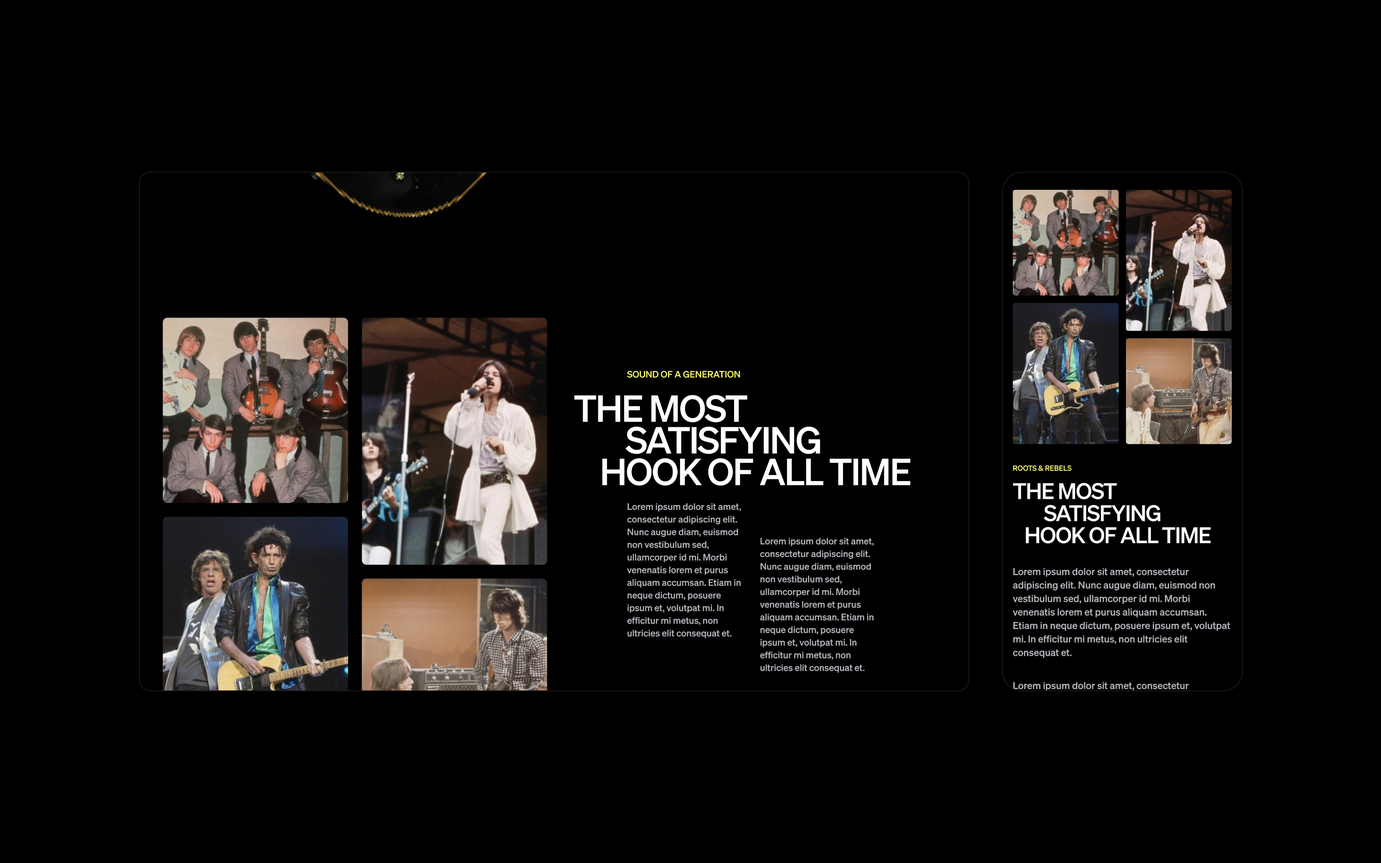
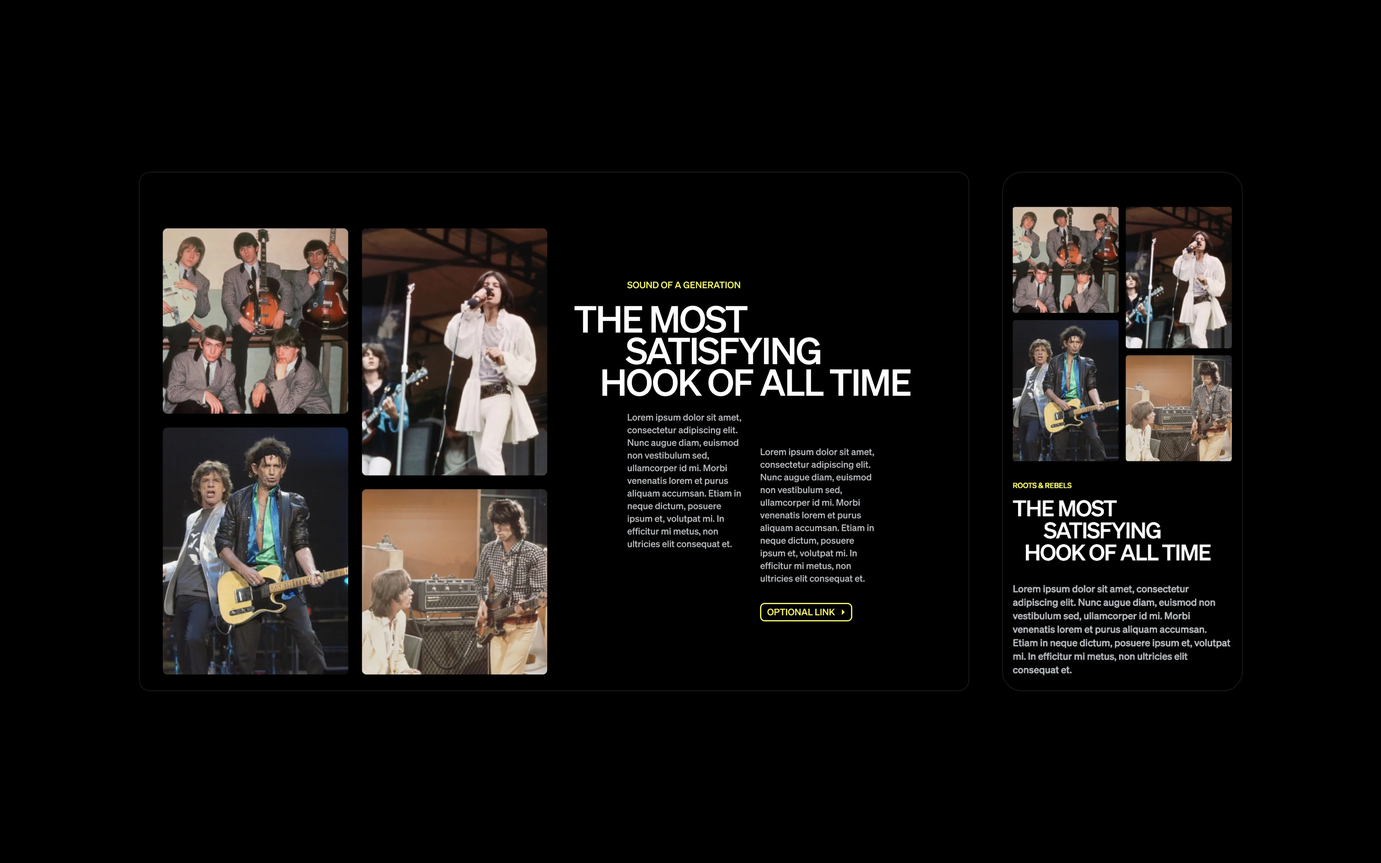
Restore desktop+mobile comps on every case, add new comps for extra screens, keep bento modules as supporting slides
Claude-Session: https://claude.ai/code/session_012hvRRtN4bxtUwdtDAPfzb9

Changed region(s): [[0.0938, 0.217, 0.6562, 0.806], [0.7188, 0.217, 0.9062, 0.806], [0.2188, 0.186, 0.25, 0.217]]

diff --git a/index.html b/index.html
@@ -402,16 +402,16 @@ function setMode(m){ if(m==="light") root.setAttribute("data-mode","light"); els
 let saved="dark"; try{saved=localStorage.getItem("cd-theme")||"dark"}catch(e){}
 setMode(saved);
 document.querySelector(".modes").addEventListener("click",e=>{const b=e.target.closest("[data-set]"); if(b) setMode(b.dataset.set)});
-const IMG = {"s-b-bc-comps":[3200,2000],"s-b-bc-found":[3200,2000],"s-b-bc-hero":[3200,2000],"s-b-bc-pattern":[3200,2000],"s-b-bc-start":[3200,2000],"s-b-cv-buttons":[3200,2000],"s-b-cv-tnf":[3200,2000],"s-b-dk-cats":[3200,2000],"s-b-dk-hero":[3200,2000],"s-b-dk-mobile":[3200,2000],"s-b-dk-shop":[3200,2000],"s-b-dk-stories":[3200,2000],"s-b-hk-art":[3200,2000],"s-b-hk-found":[3200,2000],"s-b-hk-hero":[3200,2000],"s-b-hk-principles":[3200,2000],"s-b-hk-specs":[3200,2000],"s-b-hk-themes":[3200,2000],"s-b-io-direction":[3200,2000],"s-b-io-games":[3200,2000],"s-b-io-hero":[3200,2000],"s-b-io-mobile":[3200,2000],"s-b-io-payoff":[3200,2000],"s-b-io-reveal":[3200,2000],"s-b-pga-coverage":[3200,2000],"s-b-pga-hero":[3200,2000],"s-b-pga-live":[3200,2000],"s-b-pga-onboard":[3200,2000],"s-b-pga-stories":[3200,2000],"s-b-rh-archive":[3200,2000],"s-b-rh-artifacts":[3200,2000],"s-b-rh-hero":[3200,2000],"s-b-rh-sound":[3200,2000],"s-b-rh-system":[3200,2000],"s-b-rh-voice":[3200,2000],"s-b-sw-arch":[3200,2000],"s-b-sw-dirs":[3200,2000],"s-b-sw-disc":[3200,2000],"s-b-sw-hero":[3200,2000],"s-b-sw-mobile":[3200,2000],"s-cv-hero":[3200,2000],"s-cv-type":[3200,2000],"s-cv2-brands":[3200,2000],"s-cv2-ramps":[3200,2000],"s-cv2-tokens":[3200,2000],"s-dbg-action":[3200,2000],"s-dbg-color":[3200,2000],"s-dbg-dos":[3200,2000],"s-dbg-hero":[3200,2000],"s-dbg-logo":[3200,2000],"s-dbg-photo":[3200,2000],"s-dbg-type":[3200,2000]};
+const IMG = {"l-cv-4":[3200,2000],"l-cv-5":[3200,2000],"l-cv-6":[3200,2000],"l-hk-1":[3200,2000],"l-hk-2":[3200,2000],"l-hk-3":[3200,2000],"l-hk-4":[3200,2000],"l-hk-5":[3200,2000],"l-hk-6":[3200,2000],"l-hk-7":[3200,2000],"l-rh-collage":[3200,2000],"l-rh-essay":[3200,2000],"l-rh-feature":[3200,2000],"l-rh-timeline":[3200,2000],"l-rh2-influence":[3200,2000],"l-rh2-poster":[3200,2000],"l-rh2-sound":[3200,2000],"l-rh3-art":[3200,2000],"l-rh3-back":[3200,2000],"l-rh3-quote":[3200,2000],"l-rhx-hero-stones":[3200,2000],"m-bc-color":[3200,2000],"m-bc-comps":[3200,2000],"m-bc-gallery":[3200,2000],"m-bc-home":[3200,2000],"m-bc-pattern":[3200,2000],"m-bc-start":[3200,2000],"m-bc-type":[3200,2000],"m-dk-biz":[3200,2000],"m-dk-cart":[3200,2000],"m-dk-home":[3200,2000],"m-dk-pdp":[3200,2000],"m-dk-plp":[3200,2000],"m-dk-scrubs":[3200,2000],"m-dk-skate":[3200,2000],"m-dk-stories":[3200,2000],"m-dk-team":[3200,2000],"m-io-color":[3200,2000],"m-io-complete":[3200,2000],"m-io-motion":[3200,2000],"m-io-play":[3200,2000],"m-io-progress":[3200,2000],"m-io-remix":[3200,2000],"m-io-reveal":[3200,2000],"m-io-sense":[3200,2000],"m-io-share":[3200,2000],"m-io-sound":[3200,2000],"m-io-unlock":[3200,2000],"m-pga2-feed":[3200,2000],"m-pga2-hero":[3200,2000],"m-pga2-hole":[3200,2000],"m-pga2-live":[3200,2000],"m-pga2-onboard":[3200,2000],"m-pga2-story":[3200,2000],"m-sw-act":[3200,2000],"m-sw-coll":[3200,2000],"m-sw-gear":[3200,2000],"m-sw-home":[3200,2000],"m-sw-plant":[3200,2000],"m-sw-prod":[3200,2000],"m-sw-v2":[3200,2000],"s-b-cv-buttons":[3200,2000],"s-b-dk-mobile":[3200,2000],"s-b-hk-art":[3200,2000],"s-b-hk-found":[3200,2000],"s-b-hk-principles":[3200,2000],"s-b-hk-specs":[3200,2000],"s-b-hk-themes":[3200,2000],"s-b-io-direction":[3200,2000],"s-b-io-mobile":[3200,2000],"s-b-rh-system":[3200,2000],"s-b-sw-mobile":[3200,2000],"s-cv-hero":[3200,2000],"s-cv2-brands":[3200,2000],"s-cv2-ramps":[3200,2000],"s-cv2-tokens":[3200,2000],"s-dbg-action":[3200,2000],"s-dbg-color":[3200,2000],"s-dbg-dos":[3200,2000],"s-dbg-hero":[3200,2000],"s-dbg-logo":[3200,2000],"s-dbg-photo":[3200,2000],"s-dbg-type":[3200,2000],"s-hk-p-fan":[3200,2000],"s-hk-vision-wall":[3200,2000]};
 const P = [
   {id:"google-io", n:"001", client:"Google I/O 2026",co:"Google", short:"Google I/O", disc:"Web Experience", tint:"#A23E1D",
-    role:"Art director &amp; designer", platform:"Responsive web", cover:"s-b-io-hero",
+    role:"Art director &amp; designer", platform:"Responsive web", cover:"m-io-play",
     scope:"25 playable builds that unlocked the I/O 2026 date, on desktop and mobile",
     stats:[["Day 1","The community unlocked the I/O date the day it launched"],["5","Gemini-powered game bundles in one visual language"],["5,000+","I/O attendees, plus a worldwide livestream audience"]],
     lead:"I led art direction and design for the experience, partnering with Google’s I/O team and Left Field Labs’ developers on every game",
     team:"With Left Field Labs and the Google I/O team",
     tagline:"Google could have just announced the date. Instead, we built a game the whole community had to play to unlock it.",
-    hero:["s-b-io-hero","Bundles: the game that unlocked the I/O 2026 date"],
+    hero:["m-io-play","Let’s play. Bundle select on desktop and mobile"],
     story:[
       {k:"(The Brief)", h:"Make the date reveal something people earn together.",
        p:["Every year, developers watch for the Google I/O date drop. For 2026, Left Field Labs and Google wanted the reveal to feel like an event of its own instead of a press release.",
@@ -419,56 +419,66 @@ const P = [
       {k:"(Direction)", h:"Google’s brand, treated like a physical material.",
        p:["I led art direction and design. We treated Google’s palette as folded, bent and layered cards with light moving across them, so each bundle had its own personality and still read instantly as Google. Finish a bundle and its card flips, folds and resolves into the Gemini spark.",
           "Type stayed calm and huge so the play could be loud. “Let’s play” did most of the talking."]},
+      {media:[["m-io-complete","Bundle complete: the card resolves into the Gemini spark","full"]]},
       {media:[["s-b-io-direction","The layered-card language: the bundle shelf, a card mid-flip and the Gemini spark","full"]]},
       {k:"(The Games)", h:"One visual language across every game.",
        p:["With many games in flight at once, the look could drift fast. I set the art direction as a system: the card language, color and type rules, and how every win, badge and progress state looks, so Emoji Code, Sketch Race, Sound in Motion and Color Sense each felt new and still read as one experience."]},
-      {media:[["s-b-io-games","Emoji Code, Sketch Race, Sound in Motion and Color Sense","full"]]},
+      {media:[["m-io-sound","Emoji Code","full"]]},
+      {media:[["m-io-color","Sketch Race","full"]]},
+      {media:[["m-io-motion","Sound in Motion","full"]]},
+      {media:[["m-io-sense","Color Sense","full"]]},
       {k:"(On Every Screen)", h:"Built for the phone in your pocket.",
        p:["Most people played on their phones, between sessions and on the way to work. Every game was designed for touch first, and we prototyped in the browser with engineering from the start, so what got approved in review is what shipped."]},
       {media:[["s-b-io-mobile","The full loop on mobile, from Let’s Play to the date","full"]]},
       {k:"(The Reveal)", h:"Everyone played. Everyone unlocked it.",
        p:["Every play anywhere filled one shared bar. When it filled, the date became a build of its own: May 19–20, rendered in the same layered cards, ready to explore and share."]},
-      {media:[["s-b-io-reveal","Community progress filling, then the date drop","full"]]},
+      {media:[["m-io-progress","Community progress. Every play fills the bar","full"]]},
+      {media:[["m-io-reveal","The date reveal, May 19–20","full"]]},
       {k:"(The Payoff)", h:"Something to show for it.",
        p:["Players who finished every bundle got badges to post, a hidden remix to unlock and an invitation to make a build their own. Daily reviews with Left Field Labs and weekly check-ins with Google kept every bundle on brand and on schedule through launch."]},
-      {media:[["s-b-io-payoff","You did it: badges, the hidden unlock and remix","full"]]},
+      {media:[["m-io-share","You did it. Shareable badges for finishing every bundle","full"]]},
+      {media:[["m-io-unlock","A hidden unlock for the players who found it","full"]]},
+      {media:[["m-io-remix","Make it unique: remix a build and share it","full"]]},
     ]},
 
   {id:"pga-tour", n:"002", client:"PGA Tour App",co:"PGA Tour", short:"PGA Tour App", disc:"Mobile App", tint:"#1C2B4A",
-    role:"Design lead", platform:"iOS · Android", cover:"s-b-pga-hero",
+    role:"Design lead", platform:"iOS · Android", cover:"m-pga2-hero",
     scope:"YourTOUR, live leaderboards, TOURCast shot tracking, scorecards and Watch, on iOS and Android",
     stats:[["0","Taps to your favorite golfers: YourTOUR leads the home feed"],["9","Product areas redesigned, from onboarding to Watch"],["4.5★","App Store rating for the app, across 45K+ reviews"]],
     lead:"I led design on the app at Shockoe. I owned the visual direction and the UI end to end, and drove it with the Tour’s product, brand and engineering teams",
     team:"With Shockoe and the PGA Tour brand and product teams",
     tagline:"Fans follow players, not tournaments. We rebuilt the PGA Tour app around that.",
-    hero:["s-b-pga-hero","YourTOUR, the live leaderboard and hole detail"],
+    hero:["m-pga2-hero","YourTOUR, the live leaderboard and hole detail"],
     story:[
       {k:"(The Brief)", h:"A powerful app that made fans do all the work.",
        p:["At Shockoe, we partnered with the PGA Tour on its flagship app. It had scores, stats, video and news, organized the way the Tour thinks about golf: by event and by round. Fans think about golf by player. Checking on your favorite golfer took several taps and a lot of scrolling.",
           "The brief was onboarding, personalization and a simpler core experience, with more of the Tour’s energy in the product."]},
       {k:"(Onboarding)", h:"Pick your players first. Everything else follows.",
        p:["Favorites moved to the very start. Pick your tours and your players, and those choices shape the home feed, the alerts and what surfaces during a live round. That became YourTOUR, a feed that leads with the story of the day for the players you care about."]},
-      {media:[["s-b-pga-onboard","Choose your tours, set the scene, land in YourTOUR, keep your favorites","full"]]},
+      {media:[["m-pga2-onboard","Choose your tours, set the scene, keep your favorites","full"]]},
+      {media:[["s-hk-p-fan","Fan focused: the players you follow, front and center","full"]]},
       {k:"(Live Golf)", h:"Shot-level data, readable at a glance.",
        p:["Golf produces a huge amount of data. We kept what a fan actually checks, laid over the course itself: the leaderboard, the group on the tee, par, yardage and scoring on every hole, and TourCast tracing every shot."]},
-      {media:[["s-b-pga-live","Leaderboard, group scorecard, hole detail, TourCast and the full course","full"]]},
+      {media:[["m-pga2-hole","Hole detail, TourCast shot tracking and the full course","full"]]},
+      {media:[["m-pga2-live","Group scorecard, tournament stats and the tournament hub","full"]]},
       {k:"(Coverage)", h:"One number that matters, big.",
        p:["News, player profiles, stats and Watch got the same treatment: the number or the story that matters most, large, with the detail a tap away. Every live stream sits one tap from the leaderboard."]},
-      {media:[["s-b-pga-coverage","Explore, a player profile, tournament stats and Watch","full"]]},
+      {media:[["m-pga2-feed","News, player profiles and live coverage","full"]]},
       {k:"(Stories)", h:"The round, told like a highlight reel.",
        p:["Between shots, the app tells the story of the day. Full-screen stories open on the round and close on the champion, and every tournament gets a hub with its own course photography.",
           "Every screen was built on the Haskell design system, which has its own case study."]},
-      {media:[["s-b-pga-stories","Stories for the round and the champion, and the tournament hubs","full"]]},
+      {media:[["m-pga2-story","Stories: Round Three, the champion, and the tournament","full"]]},
+      {media:[["s-hk-vision-wall","Stories, recaps and player moments","full"]]},
     ]},
 
   {id:"haskell", n:"003", client:"Haskell Design System",co:"PGA Tour", short:"Haskell", disc:"Design System", tint:"#2F4A35",
-    role:"Design system lead", platform:"iOS · Android · Web · Figma", cover:"s-b-hk-hero",
+    role:"Design system lead", platform:"iOS · Android · Web · Figma", cover:"l-hk-1",
     scope:"Tokens, type, color, icons, motion and specs shared across iOS, Android and web",
     stats:[["11","Foundation sets, from type and color to motion and art direction"],["3","Platforms, iOS, Android and web, from one source of truth"],["4.5:1","Minimum contrast, built into every Tour theme"]],
     lead:"I led the Haskell system at Shockoe, building it alongside the app and owning the foundations and specs that Tour engineers and partners shipped from",
     team:"With Shockoe and the PGA Tour digital, brand and engineering teams",
     tagline:"Every shot, every hole, every screen. One system underneath it all.",
-    hero:["s-b-hk-hero","Haskell: the system behind every PGA Tour screen"],
+    hero:["l-hk-1","Foundations, and YourTOUR built on them"],
     story:[
       {k:"(The Brief)", h:"A digital evolution, built on one foundation.",
        p:["The PGA Tour was reimagining its digital experience: every shot live, every hole in 3D, and stories that follow the players fans care about. Ambitions that big need a system underneath, or every new feature turns into a one-off.",
@@ -479,72 +489,89 @@ const P = [
       {k:"(Foundations)", h:"Tokens named for their job.",
        p:["Suisse Int’l brings clarity and Tobias brings character, across a scale that runs from hero moments down to dense stats. Underneath sit the tokens for color, motion and space, each named for what it does rather than its value, on a 4dp grid.",
           "Motion got the same care as color. One easing curve drives every transition, and a linear curve handles anything that scales or scrubs."]},
+      {media:[["l-hk-2","Spacing methods on a 4dp grid, applied to the scorecard","full"]]},
+      {media:[["l-hk-4","Motion easing, driving hole detail transitions","full"]]},
       {media:[["s-b-hk-found","Motion durations, spacing variables, spacing methods, radii and easing","full"]]},
       {k:"(Specs)", h:"Rules a partner can follow without a meeting.",
        p:["Every part of the system has a spec: logos at 600 by 600 with room for the mask, tab bar icons in a 24dp grid with 1.5 to 2dp strokes, and colors that hold a 4.5:1 contrast ratio."]},
+      {media:[["l-hk-5","Tab bar icon specs, live in the app","full"]]},
+      {media:[["l-hk-7","Color specs, applied to the leaderboard","full"]]},
       {media:[["s-b-hk-specs","Color, tab bar icon and logo specs","full"]]},
       {k:"(Themes)", h:"Big events, without forking the system.",
        p:["Tournaments like The Players get their own palette and imagery. The theme swaps colors and art, and every component underneath stays the same, from the tournament hub to the leaderboard."]},
+      {media:[["l-hk-3","Theme palette, applied to a tournament hub","full"]]},
       {media:[["s-b-hk-themes","Theme palette, tournament themes and themed screens","full"]]},
       {k:"(Art Direction)", h:"Rules for the course itself.",
        p:["Golf is as much about place as players, so Haskell covers imagery too: aerial vistas, top-down flyovers and golden-hour light, with specs for frame rate and stabilization. Design and engineering now share one source of truth, and the same patterns run from the leaderboard to TourCast shot tracking."]},
+      {media:[["l-hk-6","Course art direction, carried into the hole view","full"]]},
       {media:[["s-b-hk-art","Moodboard, top-down, aerial and TourCast","full"]]},
     ]},
 
   {id:"rock-hall", n:"004", client:"Rock &amp; Roll Hall of Fame",co:"Rock &amp; Roll Hall of Fame", short:"Rock Hall", disc:"Web Experience", tint:"#7D1E22",
-    role:"Art direction &amp; UX lead", platform:"Responsive web", cover:"s-b-rh-hero",
+    role:"Art direction &amp; UX lead", platform:"Responsive web", cover:"l-rhx-hero-stones",
     scope:"Inductee pages, artifact and archive modules, and one component library behind the whole site",
     stats:[["514K+","Annual museum visitors, now with the museum online for everyone else"],["46B","Induction media impressions, each one landing on a richer inductee page"],["1","Component library: new inductee pages without new design"]],
     lead:"I led art direction on the inductee and artist detail pages and set the visual standard for the site, with Grow and the Hall",
     team:"With Grow and the Rock &amp; Roll Hall of Fame team",
     tagline:"Most people will never make it to Cleveland. So we brought the museum to them.",
-    hero:["s-b-rh-hero","The Rolling Stones, inducted 1989"],
+    hero:["l-rhx-hero-stones","The Rolling Stones, inducted 1989"],
     story:[
       {k:"(The Brief)", h:"Put the museum on every screen.",
        p:["With Grow, we partnered with the Rock &amp; Roll Hall of Fame on its digital experience. The museum is full of guitars, stage clothes, posters and records. Online, the site was mostly tickets, hours and a list of names.",
           "Our idea was to treat every inductee page like a gallery. I worked on art direction, UX and UI, and led visual direction on the inductee pages, where the objects, the music and the story come together. Here is one inductee, the Rolling Stones, followed down the page."]},
       {k:"(Artifacts)", h:"Every object tells part of the story.",
        p:["First comes an object from the collection, lit like it sits behind glass, with the story beside it, a button to view it in 3D and footage below. A black Les Paul, a concert poster: the same module carries any object, and the layout bends to fit it."]},
-      {media:[["s-b-rh-artifacts","A black Les Paul in 3D, and a Stones concert poster from the collection","full"]]},
+      {media:[["l-rh3-art","From the museum: a black Les Paul you can turn over in 3D","full"]]},
+      {media:[["l-rh2-poster","A Stones concert poster, straight from the collection","full"]]},
       {k:"(Their Sound)", h:"Pull a record and it plays.",
        p:["Records work like the objects. Pull one from the stack and it slides out of its sleeve and plays. Photo spreads from the era sit beside the music, so the page sounds and looks like the band."]},
-      {media:[["s-b-rh-sound","Their signature sound, and the most satisfying hook of all time","full"]]},
+      {media:[["l-rh2-sound","Their signature sound: records you can pull and play","full"]]},
+      {media:[["l-rh-collage","The most satisfying hook of all time, in photos from the era","full"]]},
       {k:"(Their Voice)", h:"Let the artists say it.",
        p:["Backstage access puts interviews right on the page, so Mick and Keith tell the story themselves. Pull quotes run big and plain, in the Hall’s yellow, and the induction essay sits one tap away."]},
-      {media:[["s-b-rh-voice","Backstage with Mick and Keith, the 1989 essay and a pull quote","full"]]},
+      {media:[["l-rh3-back","Backstage access: Mick Jagger and Keith Richards, in their own words","full"]]},
+      {media:[["l-rh3-quote","In their own words: Mick Jagger","full"]]},
+      {media:[["l-rh-essay","The 1989 Hall of Fame essay","full"]]},
       {k:"(The Archive)", h:"One visit turns into an hour.",
        p:["Influence maps connect each inductee to the artists who shaped them and the ones they shaped, and a timeline walks through the career, so every page leads somewhere else in the Hall."]},
-      {media:[["s-b-rh-archive","Their influence, and a timeline from Ed Sullivan to the Tour of the Americas","full"]]},
+      {media:[["l-rh2-influence","Their influence: who they learned from, and who learned from them","full"]]},
+      {media:[["l-rh-timeline","Career milestones, from Ed Sullivan to the Tour of the Americas","full"]]},
       {k:"(The System)", h:"One library runs all of it.",
        p:["The same component library carries the whole site, from inductee heroes and feature blocks to class listings, ticketing and the live induction broadcast."]},
+      {media:[["l-rh-feature","A feature block from the library: honoring the Class of 2025","full"]]},
       {media:[["s-b-rh-system","Heroes, feature blocks, class listings and calls to action from the library","full"]]},
     ]},
 
   {id:"dickies", n:"005", client:"Dickies.com",co:"Dickies", short:"Dickies.com", disc:"E-Commerce", tint:"#4E3426",
-    role:"UI &amp; visual design lead", platform:"Shopify · Responsive web", cover:"s-b-dk-hero",
+    role:"UI &amp; visual design lead", platform:"Shopify · Responsive web", cover:"m-dk-home",
     scope:"Home, category, product, Skate, Scrubs, Stories and team pages on Shopify",
     stats:[["100+","Countries, one storefront system for workwear, skate and scrubs"],["7","Page types redesigned on shared parts"],["1","Design language from home to checkout"]],
     lead:"I led UI and visual design for the storefront, working with the Dickies brand team, merchandising and partner developers",
     team:"With VF Corporation, the Dickies brand team and partner agencies",
     tagline:"A storefront for people who actually wear the clothes to work.",
-    hero:["s-b-dk-hero","Dickies.com: home, product, category and Skateboarding"],
+    hero:["m-dk-home","Home, desktop and mobile"],
     story:[
       {k:"(The Brief)", h:"A site as hardworking as the people who shop it.",
        p:["Dickies has made workwear since 1922. Its customers are welders, ranchers, skaters and chefs who are hard on their clothes and have no patience for a fussy website.",
           "Working with VF Corporation and the Dickies brand team, we redesigned the site as part of a wider brand refresh with a new identity and a custom typeface drawn from the logo. I led UI and visual design, carrying that refresh into a responsive store that balances grit with utility."]},
       {k:"(Shopping)", h:"Product in front of people, sooner.",
        p:["Research and an audit of the old site showed the problems quickly: oversized modules, products buried below the fold, and navigation that made people work for the basics. Category pages now open on product, product pages lead with fit and color, and the cart keeps the wishlist in reach."]},
-      {media:[["s-b-dk-shop","Men’s Pants, the Original 874® product page, the cart and Men’s","full"]]},
+      {media:[["m-dk-plp","Men’s Pants, a category landing page","full"]]},
+      {media:[["m-dk-pdp","Product page for the Original 874® Work Pant","full"]]},
+      {media:[["m-dk-cart","The cart, with the wishlist in reach","full"]]},
       {k:"(Mobile-First)", h:"Swipe to shop.",
        p:["Most customers shop on their phones, so we designed for the phone first. Shoppable carousels fit more product on a small screen without endless scrolling, and tighter modules let the typeface and the photography carry the brand."]},
       {media:[["s-b-dk-mobile","Home, category, product, cart and Skateboarding on mobile","full"]]},
       {k:"(Categories)", h:"New lines, same modules.",
        p:["Best Sellers opened up to every category, the navigation got simpler, and the same modules stretched to Skateboarding, Scrubs and Dickies for Business without new templates."]},
-      {media:[["s-b-dk-cats","Skateboarding, Scrubs, Dickies for Business and Home","full"]]},
+      {media:[["m-dk-skate","Skateboarding, with products and the team","full"]]},
+      {media:[["m-dk-scrubs","Scrubs, a new category on the same modules","full"]]},
+      {media:[["m-dk-biz","Dickies for Business","full"]]},
       {k:"(Stories)", h:"Real people in the clothes.",
        p:["Dickies has stories worth telling, from racing builds to its skate team. Editorial and team pages run on the same Figma system as the store, so the team can publish a story as fast as a sale.",
           "The result is a faster, mobile-first storefront built to take a beating, just like the clothes."]},
-      {media:[["s-b-dk-stories","Stories, Still in the Race, and skate team member Christian Henry","full"]]},
+      {media:[["m-dk-stories","Stories, Still in the Race","full"]]},
+      {media:[["m-dk-team","Skate team member, Christian Henry","full"]]},
     ]},
 
   {id:"dickies-brand", n:"006", client:"Dickies Brand Guidelines",co:"Dickies", short:"Dickies Brand", disc:"Brand System", tint:"#8A5418",
@@ -599,67 +626,73 @@ const P = [
       {k:"(Foundations)", h:"One token, two sizes.",
        p:["Type works the same way. Each style is a token for family, size, line height, letter spacing and weight, with a desktop and a mobile value, so Display 1 drops from 80 to 40 on a phone without anyone redrawing a screen. Brands swap the family and keep the scale.",
           "Buttons, inputs, filters, ratings, navigation and loaders sit on top: seventy-plus components, each with its own documentation page and copy-paste stickers."]},
-      {media:[["s-cv-type","The type scale, one token per style","full"]]},
+      {media:[["l-cv-4","Type scale, desktop to mobile","full"]]},
+      {media:[["l-cv-5","Button types and states","full"]]},
       {media:[["s-b-cv-buttons","Button stickers: every type and state, plus payment and floating action buttons","full"]]},
       {k:"(How It Scales)", h:"Swap the tokens. Keep the components.",
        p:["Canvas isn’t a website. It’s the building blocks every VF brand shares. On the left is the unbranded product card: slots for a logo and imagery, default tokens, no brand. On the right, The North Face fills it in with their logo, their photography and their tokens: near-black #262527 for actions, 4px corners and title-case calls to action. Not one component was redrawn.",
           "That is the whole point of the system. Designers at The North Face and Dickies start from the same tested parts, and each brand still looks like itself."]},
       {media:[["s-cv2-brands","The unbranded Canvas component, and The North Face built on it","full"]]},
-      {media:[["s-b-cv-tnf","The North Face product page, built entirely from Canvas","full"]]},
+      {media:[["l-cv-6","Canvas, themed for The North Face: the product page on desktop and mobile","full"]]},
     ]},
 
   {id:"smartwool", n:"008", client:"Smartwool.com",co:"Smartwool", short:"Smartwool.com", disc:"E-Commerce", tint:"#245656",
-    role:"UX &amp; visual designer", platform:"Responsive web", cover:"s-b-sw-hero",
+    role:"UX &amp; visual designer", platform:"Responsive web", cover:"m-sw-home",
     scope:"Site architecture, home, activity, collection, category and product pages",
     stats:[["5","Page templates rebuilt around how people shop"],["1","Site architecture organized by activity, not product code"],["2","Breakpoints designed for every page"]],
     lead:"I owned UX and visual design, from site architecture to final pages, with Smartwool’s digital and brand leads",
     team:"With VF Corporation and the Smartwool digital and brand teams",
     tagline:"Too much great gear and no obvious way in. We redesigned the front door.",
-    hero:["s-b-sw-hero","Smartwool.com: home, activities, products and campaigns"],
+    hero:["m-sw-home","Home, desktop and mobile"],
     story:[
       {k:"(The Brief)", h:"A site that welcomes the overwhelmed.",
        p:["Working with VF Corporation and the Smartwool team, we took on the homepage. Smartwool makes great merino gear, and a lot of it. Socks alone come in dozens of cushion levels, heights and activities, and shoppers were landing on the site without knowing where to start.",
           "So we started over, from the structure up, backed by analytics, heuristic reviews and testing against competitors."]},
       {k:"(Directions)", h:"Two ways in, tested against each other.",
        p:["We explored more than one front door: a warm, campaign-led home built around the FP Movement collaboration, and a seasonal direction built around Cold Days Are Coming. Both led with the brand promise, and both put product within a scroll."]},
-      {media:[["s-b-sw-dirs","The final home, and the earlier Cold Days direction","full"]]},
+      {media:[["m-sw-v2","An earlier direction, Cold Days Are Coming","full"]]},
       {k:"(Architecture)", h:"A site map built on how people actually shop.",
        p:["People shop by what they are about to do, so activities became a front door: run, hike and bike, each with a clear path to men’s and women’s gear. Best sellers, collections and seasonal modules sit underneath, and category names were rewritten in plain language."]},
-      {media:[["s-b-sw-arch","Shop by activity, best sellers, collections and seasonal gear","full"]]},
+      {media:[["m-sw-act","Shop by activity","full"]]},
+      {media:[["m-sw-prod","Best sellers and what’s new","full"]]},
+      {media:[["m-sw-coll","Shop collections","full"]]},
       {k:"(Discovery)", h:"A home for the stories the old site hid.",
        p:["Some of Smartwool’s best stories lived only in social campaigns. Campaign modules and product carousels gave collections like Plant-Based Dyes a place on the site, and a reason to explore."]},
-      {media:[["s-b-sw-disc","Plant-Based Dyes and Gear Up for Dropping Temps","full"]]},
+      {media:[["m-sw-plant","Plant-Based Dyes, a campaign with a home","full"]]},
+      {media:[["m-sw-gear","Seasonal campaign module","full"]]},
       {k:"(On Mobile)", h:"Everyone can find their way.",
        p:["On a phone, every module stacks into a clear path: activity, product, story, collection. The new homepage helps every customer, from first-time sock buyer to thru-hiker, find their way quickly, with the brand’s Go Far. Feel Good. promise front and center."]},
       {media:[["s-b-sw-mobile","Home, activities, what’s new, Plant-Based Dyes and collections on mobile","full"]]},
     ]},
 
   {id:"beacon", n:"009", client:"Beacon Design System®",co:"Morgan Stanley", short:"Beacon", disc:"Design System", tint:"#4D2B45",
-    role:"Design system lead", platform:"Docs site · Figma · Sketch", cover:"s-b-bc-hero",
+    role:"Design system lead", platform:"Docs site · Figma · Sketch", cover:"m-bc-home",
     scope:"Foundations, components, patterns and documentation for Morgan Stanley product teams",
     stats:[["Firm-wide","Adopted by design teams across Morgan Stanley"],["5","Foundations: type, color, elevation, grid and icons"],["2","Synced design kits, Figma and Sketch"]],
     lead:"I led the design of Beacon and its documentation, then helped roll it out to design teams across the firm",
     team:"With Morgan Stanley’s design system team",
     tagline:"Morgan Stanley already had a design system. We made designers want to use it.",
-    hero:["s-b-bc-hero","Beacon: home, components, the component gallery and color"],
+    hero:["m-bc-home","Great work starts here. The Beacon home"],
     story:[
       {k:"(The Brief)", h:"Snackable wisdom for the busy designer.",
        p:["Beacon is Morgan Stanley’s customer-facing design system, supporting many digital products under one brand. The system worked. Adoption was the problem: designers were busy, the guidance was dense, and best practices were easy to skip.",
           "My job was to make the right thing the easy thing."]},
       {k:"(Getting Started)", h:"A front door designers want to open.",
        p:["The home leads with what’s new and one clear way in. Get Started hands designers the Figma and Sketch kits and a checklist, so a first visit ends with the right files open. Illustration did a lot of the work: every section got its own character, so the docs felt like a place worth visiting."]},
-      {media:[["s-b-bc-start","The Beacon home and Get Started","full"]]},
+      {media:[["m-bc-start","Get started","full"]]},
       {k:"(Components)", h:"Answers in seconds, not chapters.",
        p:["The docs were reorganized into clear Foundations, Components and Patterns sections, each with design, development and accessibility tabs. Every component has its own page, and the gallery shows them all with their live states."]},
-      {media:[["s-b-bc-comps","Components overview and the full gallery","full"]]},
+      {media:[["m-bc-comps","Components overview","full"]]},
+      {media:[["m-bc-gallery","Every component, with live states","full"]]},
       {k:"(Patterns)", h:"From parts to answers.",
        p:["Components solve small problems. Patterns solve the common big ones, like multi-step forms, empty states and errors, with guidance written in plain language. Synced Figma and Sketch kits meant what designers placed matched what engineering had built."]},
-      {media:[["s-b-bc-pattern","Patterns: forms with inline validation","full"]]},
+      {media:[["m-bc-pattern","Patterns: forms with inline validation","full"]]},
       {k:"(Foundations)", h:"A palette that can be bold and sensitive.",
        p:["Foundations cover type, color, elevation, grid and icons. Inter carries everything, and the palette leans on Morgan Stanley blues with a few brighter accents, each with its value and where it belongs.",
           "The color, typography, components and patterns pages were designed for this case study to complete the story, using the same components and illustrations as the original direction."]},
       {tokens:[["Light Blue","#187aba"],["Medium Blue","#005c90"],["Dark Blue","#002b51"],["Seafoam","#6fc8cb"],["Teal","#62e1e6"],["Pale Blue","#b9e8fe"],["Jade","#006600"],["Lilac","#675882"],["Action Blue","#0069b5"]], cap:"The Beacon palette"},
-      {media:[["s-b-bc-found","Foundations: color and typography","full"]]},
+      {media:[["m-bc-color","Foundations: color","full"]]},
+      {media:[["m-bc-type","Foundations: typography","full"]]},
     ]},
 
   
@@ -688,9 +721,9 @@ const ph = (p, i, label, ar) => `<div class="ph" style="--tint:${p.tint};--ar:${
   ${i===0?`<span class="ph-mark">${p.short}</span>`:""}
   <span class="ph-l mono">${label}</span></div>`;
 
-const img = (k, alt, eager) => { const d=IMG[k]||[1600,900]; const lock=/^(l|m)-/.test(k); return (lock?'<span class="shot-wrap">':'')+`<img class="shot" src="/work/${k}.webp?v=11082300" alt="${alt}" width="${d[0]}" height="${d[1]}" ${eager?'fetchpriority="high"':'loading="lazy"'} decoding="async">`+(lock?'</span>':''); };
+const img = (k, alt, eager) => { const d=IMG[k]||[1600,900]; const lock=/^(l|m)-/.test(k); return (lock?'<span class="shot-wrap">':'')+`<img class="shot" src="/work/${k}.webp?v=11091340" alt="${alt}" width="${d[0]}" height="${d[1]}" ${eager?'fetchpriority="high"':'loading="lazy"'} decoding="async">`+(lock?'</span>':''); };
 const USE_COVERS = false; // flip to true once every project has a matching-resolution cover
-const thumb = (p, small) => `<div class="ph ph-th" style="--tint:${p.tint};--ar:3/2"><img src="/work/th-${p.id}${small?"-s":""}.webp?v=11082300" alt="" width="${small?600:1500}" height="${small?400:1000}" ${small?"":'loading="lazy"'} decoding="async"><span class="ph-n mono">${p.n}.00</span><span class="ph-mark">${p.short}</span></div>`;
+const thumb = (p, small) => `<div class="ph ph-th" style="--tint:${p.tint};--ar:3/2"><img src="/work/th-${p.id}${small?"-s":""}.webp?v=11091340" alt="" width="${small?600:1500}" height="${small?400:1000}" ${small?"":'loading="lazy"'} decoding="async"><span class="ph-n mono">${p.n}.00</span><span class="ph-mark">${p.short}</span></div>`;
 const cover = (p, label) => thumb(p);
 const coverOld = (p, label) => (USE_COVERS && p.cover)
   ? `<div class="ph ph-img" style="--ar:3/2">${img(p.cover, p.short.replace(/&amp;/g,"&")+" project cover")}</div>`
@@ -800,7 +833,7 @@ function projectReal(p){
   const bp = b => { n++; const ks=Object.keys(b.bp); const first=ks[0];
     return `<div class="grid p-media"><div class="spec" data-bpview><div class="spec-head mono"><span class="mute">(Breakpoints) — <span class="bp-w">${BPPX[first]}px</span></span>
       <span class="seg" role="group" aria-label="Breakpoint">${ks.map(k=>`<button data-bp="${k}" aria-pressed="${k===first}">${k}</button>`).join("")}</span></div>
-      <div class="bp-stage"><div class="bp-frame" style="width:${BPW[first]}">${ks.map(k=>{const d=IMG[b.bp[k]]||[1600,1000];return `<img src="/work/${b.bp[k]}.webp?v=11082300" alt="${alt(b.cap+" — "+k)}" width="${d[0]}" height="${d[1]}" loading="lazy" decoding="async" data-k="${k}" class="${k===first?"on":""}">`}).join("")}</div></div>
+      <div class="bp-stage"><div class="bp-frame" style="width:${BPW[first]}">${ks.map(k=>{const d=IMG[b.bp[k]]||[1600,1000];return `<img src="/work/${b.bp[k]}.webp?v=11091340" alt="${alt(b.cap+" — "+k)}" width="${d[0]}" height="${d[1]}" loading="lazy" decoding="async" data-k="${k}" class="${k===first?"on":""}">`}).join("")}</div></div>
       <div class="spec-cap mono mute"><span>${b.cap}</span><span>${String(n).padStart(2,"0")}</span></div></div></div>`; };
   const tok = b => { return `<div class="grid p-media"><div class="spec"><div class="spec-head mono"><span class="mute">(Tokens) — click to copy</span><span class="mute">${b.tokens.length} values</span></div>
       <div class="tok mono">${b.tokens.map(t=>`<button data-copy="${t[1]}" style="--c:${t[1]}" aria-label="Copy ${t[0]} ${t[1]}"><i></i><span><b>${t[0]}</b><em>${t[1].toUpperCase()}</em></span></button>`).join("")}</div>
@@ -976,7 +1009,7 @@ document.getElementById("copy").addEventListener("click", e=>{
 
 addEventListener("hashchange", route); route();
 // Warm the list-view previews (about 150KB total) once the page is idle, so hovering shows them instantly.
-(function(){ const go=()=>P.forEach(p=>{ const i=new Image(); i.src=`work/th-${p.id}-s.webp?v=11082300`; i.decode&&i.decode().catch(()=>{}); });
+(function(){ const go=()=>P.forEach(p=>{ const i=new Image(); i.src=`work/th-${p.id}-s.webp?v=11091340`; i.decode&&i.decode().catch(()=>{}); });
   if(matchMedia("(hover:hover) and (pointer:fine)").matches){ ("requestIdleCallback" in window) ? requestIdleCallback(go,{timeout:2500}) : setTimeout(go,1200); } })();
 addEventListener("pageshow",e=>{ if(!e.persisted && (!location.hash||location.hash==="#home")) scrollTo(0,0) });
 addEventListener("load",()=>{ if((!location.hash||location.hash==="#home") && scrollY<4) scrollTo(0,0) });
